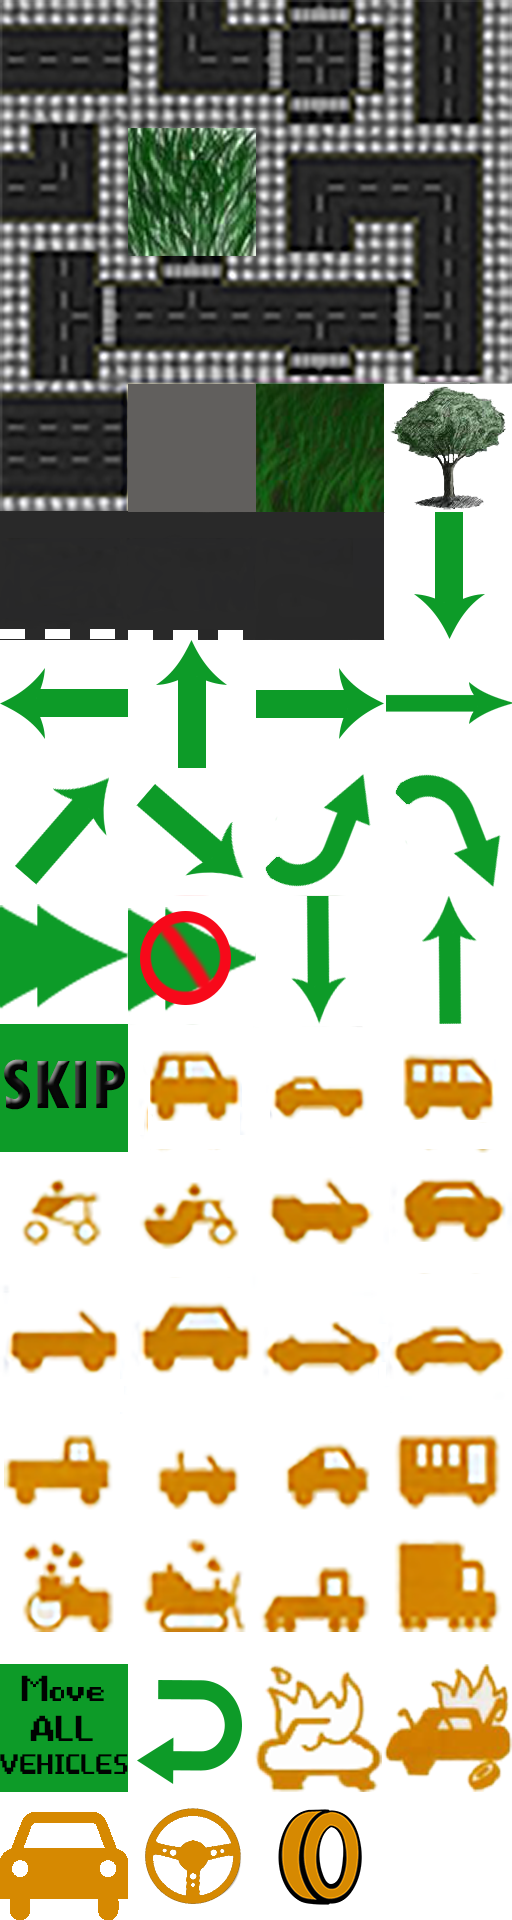
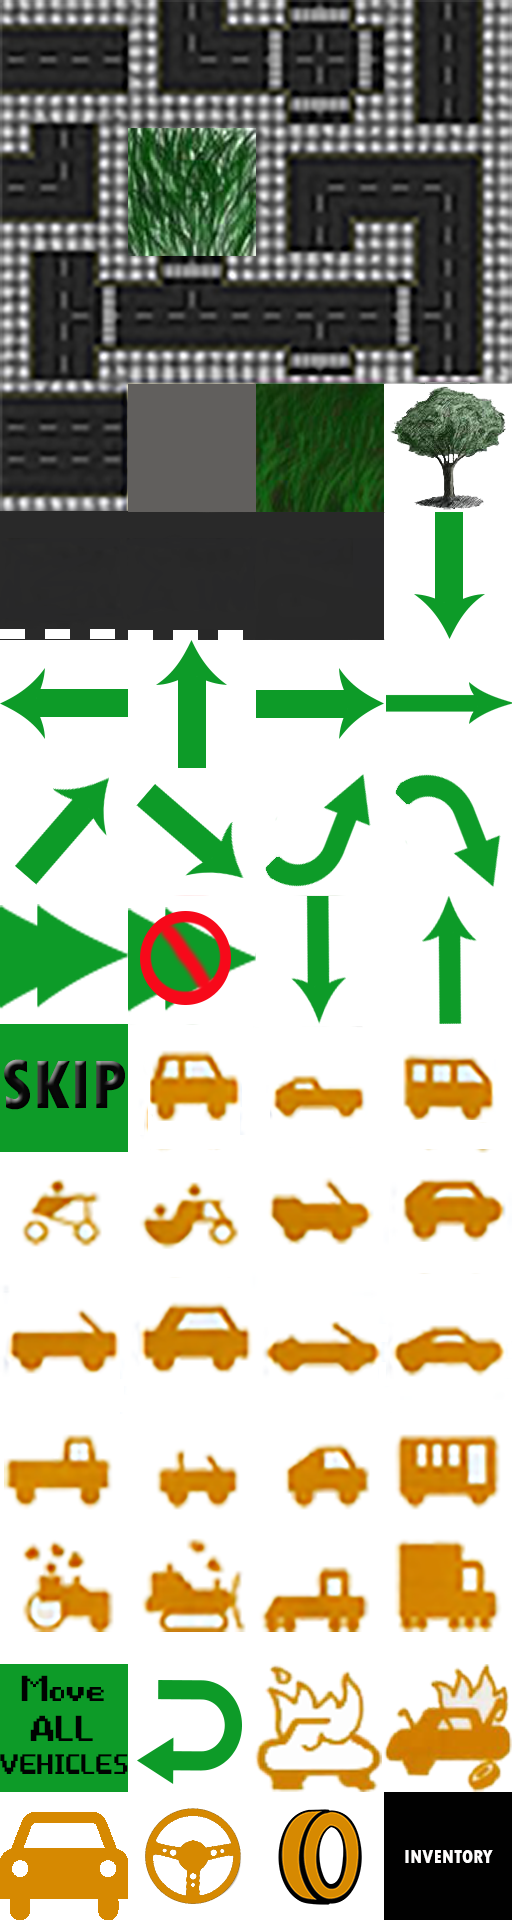
Inventory added to the over world. Press the inventory button to bring it up and drag the map to get rid of it.

Changed region(s): [[0.75, 0.9062, 1.0, 1.0]]

diff --git a/wsTotal/TotalAnnihilationRoadRage/src/com/totalannihilationroadrage/WorldMap.java b/wsTotal/TotalAnnihilationRoadRage/src/com/totalannihilationroadrage/WorldMap.java
@@ -10,6 +10,7 @@ import java.util.Random;
 import java.util.EnumMap;
 
 import android.graphics.Color;
+import android.graphics.Paint;
 import android.text.method.Touch;
 import android.view.MotionEvent;
 
@@ -119,6 +120,18 @@ public class WorldMap extends Screen
     public int AvatarY = 0;
     public int Rand_pos = 0;
     private boolean selectedVehicle = false;
+
+    int fuel = 0;
+    int food = 0;
+    int ammo = 0;
+    int guns = 0;
+    int tires = 0;
+    int medicalSupplies = 0;
+    int antitoxins = 0;
+    int vehicles = 0;
+    int people = 0;
+
+    boolean drawScreen = false;
 
     TacticalCombatWorld tcWorld;
     List< TacticalCombatVehicle > tcvPlayer = new ArrayList< TacticalCombatVehicle >();
@@ -335,15 +348,21 @@ public class WorldMap extends Screen
 
             if (event.type == TouchEvent.TOUCH_UP)
             {
+                int tileWidth = 128;
+                int tileHeight = 128;
                 if (!event.wasDragged)
                 {
                     selectedVehicle = isVehicleTouched(event);
+                }
+                if(inBoundaryCheck(event.x, event.y,  g.getWidth() - tileWidth - 10, g.getHeight() - tileHeight - 10, tileWidth, tileHeight))
+                {//checks if the inventory button has been selected
+                    updateInventory(touchEvents);
                 }
             }
 
             if(event.type == TouchEvent.TOUCH_DRAGGED)
             {
-
+                drawScreen = false;
                 // Calculate the distance moved
                 final float dx = x - mLastTouchx;
                 final float dy = y - mLastTouchy;
@@ -459,10 +478,15 @@ public class WorldMap extends Screen
         g.clear(0);
         drawWorld(Assets.tmOverWorld);
         drawAvatar();
+        drawInventoryButton();
 
         if(selectedVehicle)
         {
             drawOverWorldUI(AvatarX,AvatarY);
+        }
+        if(drawScreen)
+        {
+            drawInventoryScreen();
         }
     }
 
@@ -531,4 +555,117 @@ public class WorldMap extends Screen
     {
 
     }
+
+    private void drawInventoryButton()
+    {
+        Graphics g = game.getGraphics();
+        int tileWidth = 128;
+        int tileHeight = 128;
+        int index = 59;
+        int numColumns = 4;
+        int srcX, srcY;
+
+        srcX = (index % numColumns) * tileHeight;
+        srcY = (index++ / numColumns) * tileWidth;
+        g.drawPixmap(Assets.roadTileSheet, g.getWidth() - tileWidth - 10, g.getHeight() - tileHeight - 10, srcX, srcY, tileWidth, tileHeight);            //skip
+    }
+
+    private void updateInventory(List<Input.TouchEvent> touchEvents)
+    {
+        Graphics g = game.getGraphics();
+        int tileWidth = 128;
+        int tileHeight = 128;
+
+        int len = touchEvents.size();
+
+        for(int i = 0; i < len; i++)
+        {
+            Input.TouchEvent event = touchEvents.get(i);
+            if(event.type == Input.TouchEvent.TOUCH_DOWN)
+            {
+
+
+            }
+            if(event.type == Input.TouchEvent.TOUCH_UP)
+            {
+                if(inBoundaryCheck(event.x, event.y,  g.getWidth() - tileWidth - 10, g.getHeight() - tileHeight - 10, tileWidth, tileHeight))
+                {
+                    drawScreen = true;
+                    touchEvents.remove(i);
+                    break;
+                }
+            }
+        }
+    }
+
+    private void drawInventoryScreen()
+    {
+        //used to tell what crew each player vehicle has
+        Graphics g = game.getGraphics();
+        int fontSize = 72;
+        int rectWidth = 800;
+        int rectHeight = fontSize * 12;
+        int xPos = (int)((g.getWidth() * 0.5) - (rectWidth * 0.5));
+        int yPos = (int)((g.getHeight() * 0.5) - (rectHeight * 0.5));
+        int line = 0;
+        String text;
+
+        g.drawRect(xPos, yPos, rectWidth, rectHeight, Color.BLACK);
+
+        xPos += fontSize * 1.5;
+
+
+        line += 3;
+        yPos = line * fontSize;
+
+        text = "Inventory";
+        g.drawText(text, xPos, yPos, Color.WHITE, fontSize, Paint.Align.LEFT);
+        ++line;
+
+        text = "Fuel: " + fuel;
+        yPos = line * fontSize;
+        g.drawText(text, xPos, yPos, Color.WHITE, fontSize, Paint.Align.LEFT);
+        ++line;
+
+        text = "food: " + food;
+        yPos = line * fontSize;
+        g.drawText(text, xPos, yPos, Color.WHITE, fontSize, Paint.Align.LEFT);
+        ++line;
+
+        text = "Ammo: " + ammo;
+        yPos = line * fontSize;
+        g.drawText(text, xPos, yPos, Color.WHITE, fontSize, Paint.Align.LEFT);
+        ++line;
+
+        text = "Guns: " + guns;
+        yPos = line * fontSize;
+        g.drawText(text, xPos, yPos, Color.WHITE, fontSize, Paint.Align.LEFT);
+        ++line;
+
+        text = "Tires: " + tires;
+        yPos = line * fontSize;
+        g.drawText(text, xPos, yPos, Color.WHITE, fontSize, Paint.Align.LEFT);
+        ++line;
+
+        text = "Medical Supplies: " + medicalSupplies;
+        yPos = line * fontSize;
+        g.drawText(text, xPos, yPos, Color.WHITE, fontSize, Paint.Align.LEFT);
+        ++line;
+
+        text = "Antitoxins: " + antitoxins;
+        yPos = line * fontSize;
+        g.drawText(text, xPos, yPos, Color.WHITE, fontSize, Paint.Align.LEFT);
+        ++line;
+
+        text = "Vehicles: " + vehicles;
+        yPos = line * fontSize;
+        g.drawText(text, xPos, yPos, Color.WHITE, fontSize, Paint.Align.LEFT);
+        ++line;
+
+        text = "People: " + people;
+        yPos = line * fontSize;
+        g.drawText(text, xPos, yPos, Color.WHITE, fontSize, Paint.Align.LEFT);
+        ++line;
+    }
+
 }
